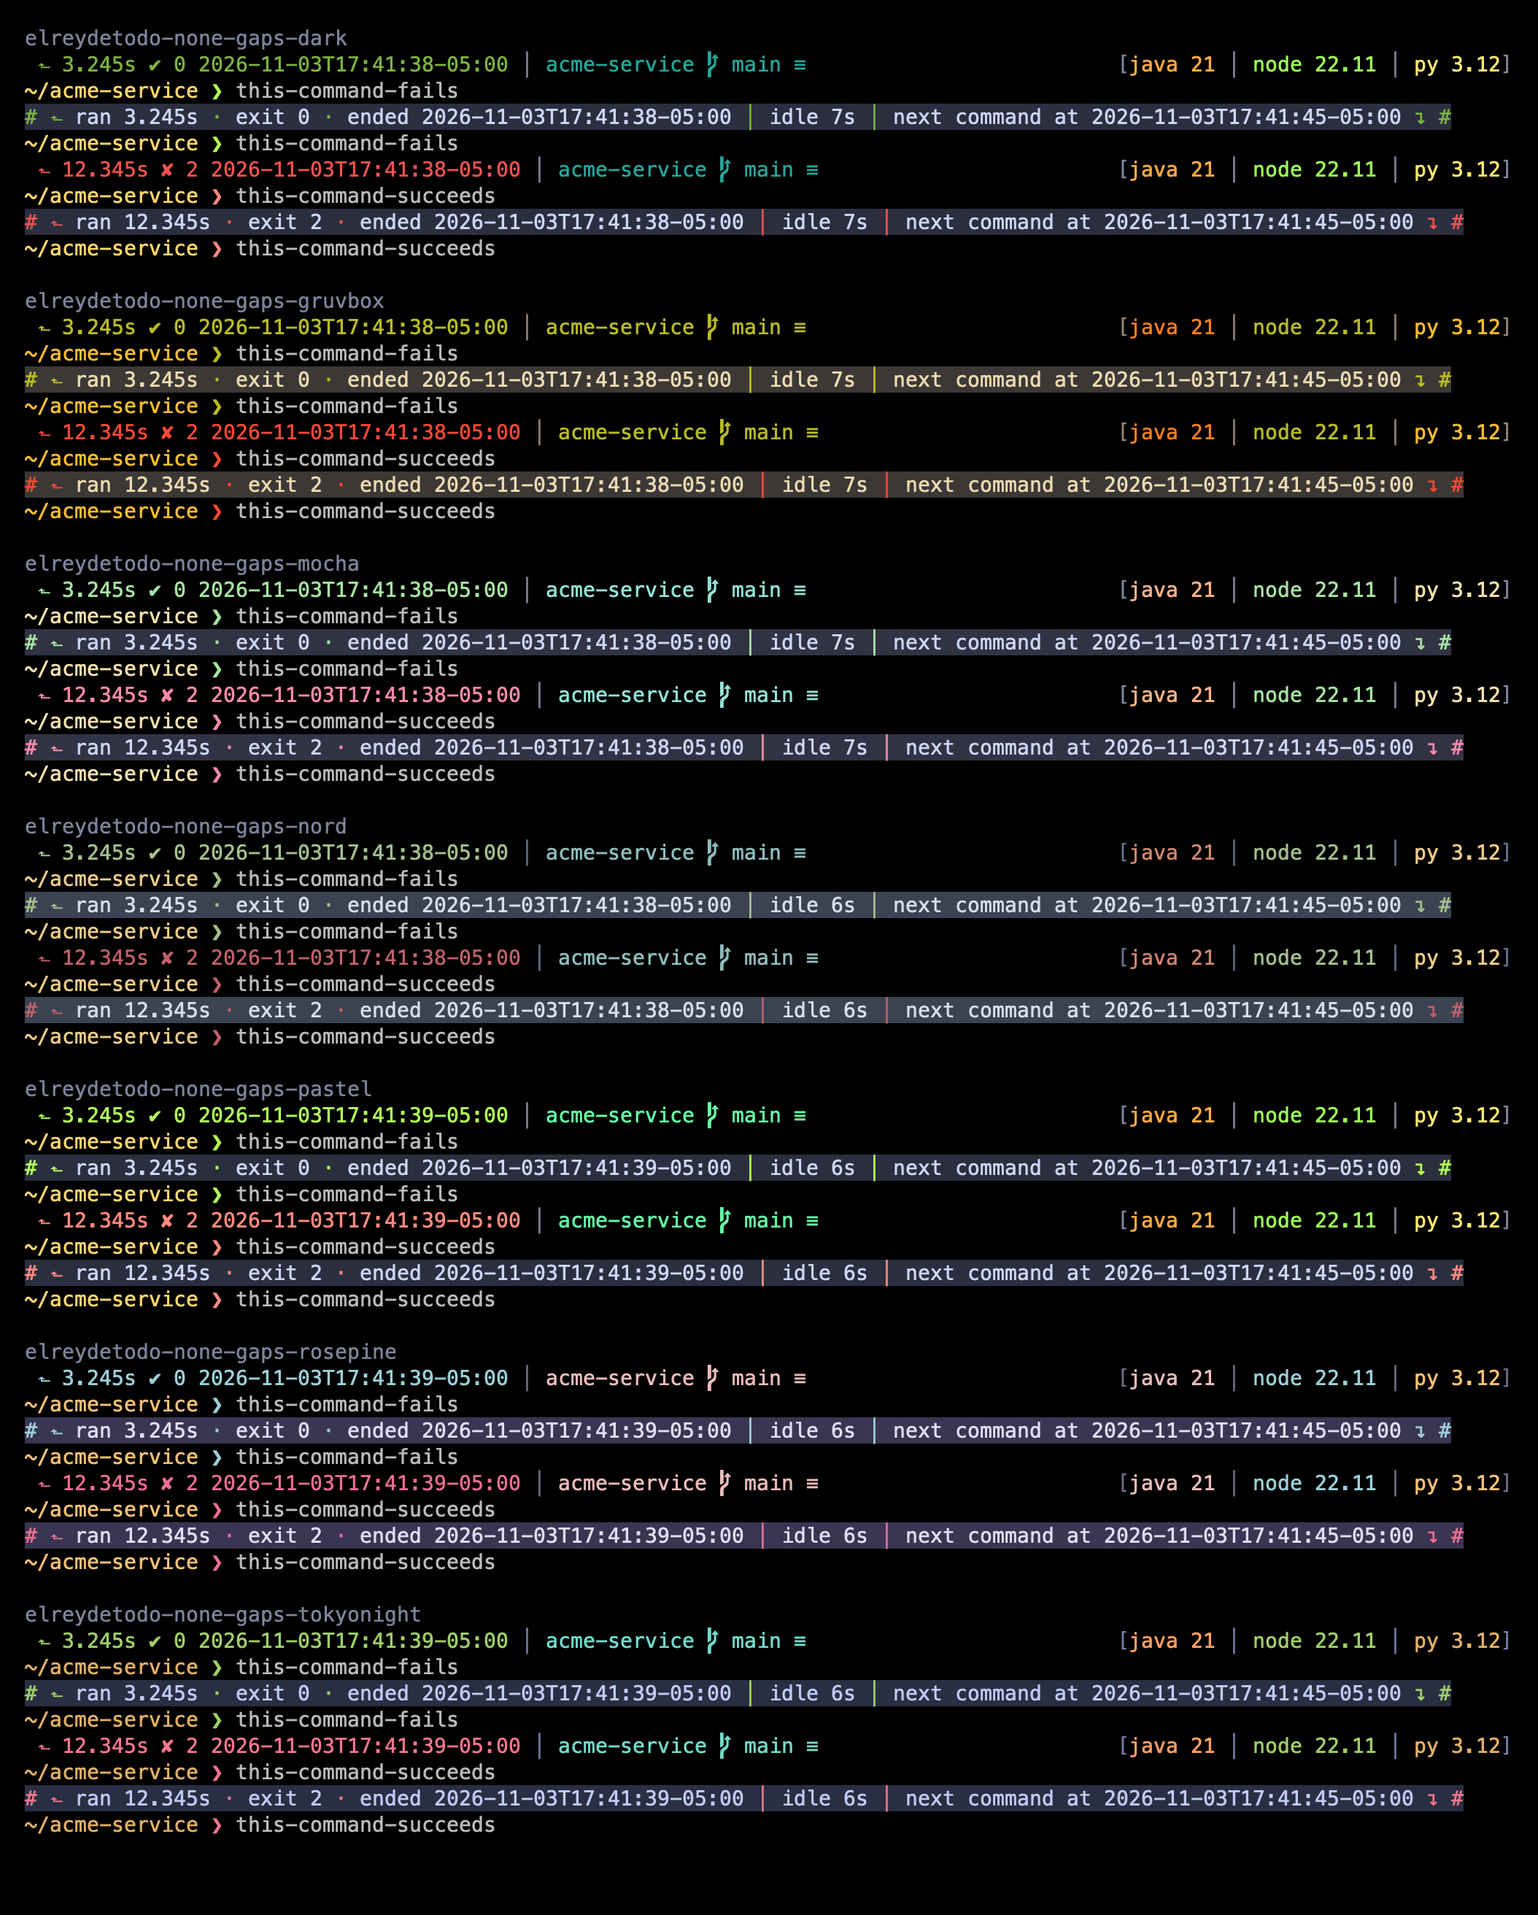
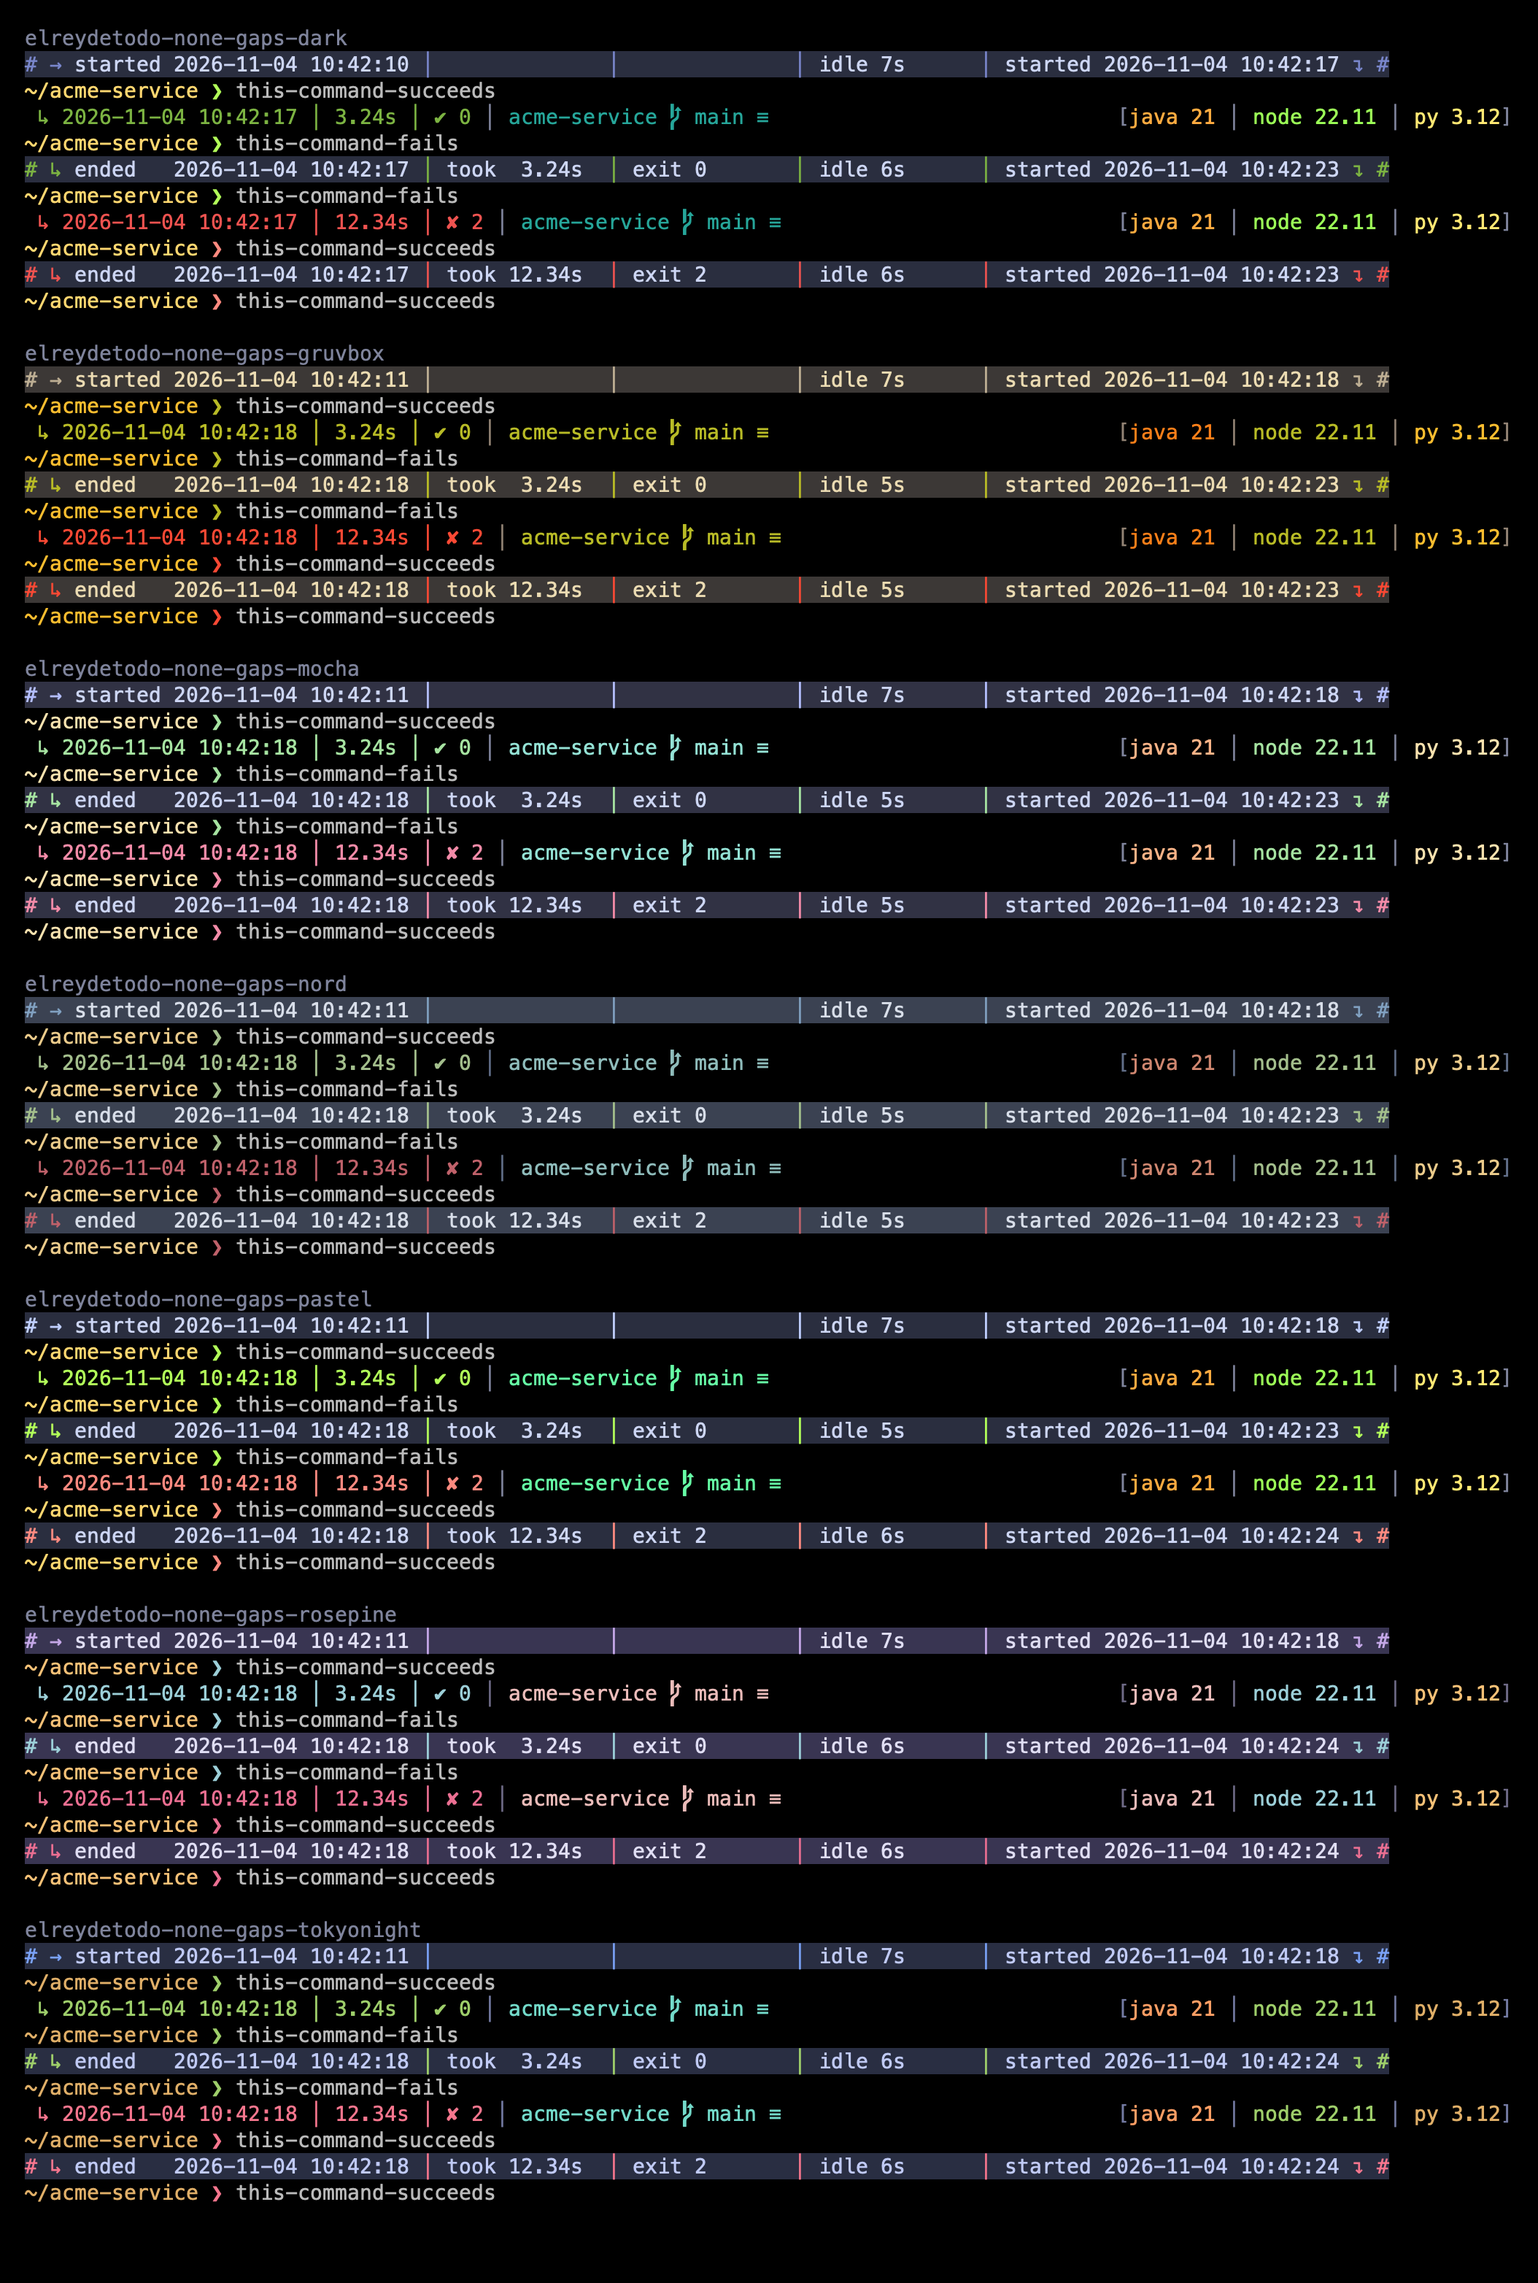
Line up the committed prompt in fixed columns
The committed line now has five segments, each padded to a fixed width, so the columns line up
from one committed prompt to the next in scrollback:

  # ↳ ended   2026-11-03 14:03:07 │ took  3.24s  │ exit 0       │ idle 41s     │ started 2026-11-03 14:03:48 ↴ #

- Timestamps drop the T and the time zone. ISO 8601 allows the space, and the zone is always the
  local one.
- The labels lose their "at", since the timestamp makes it obvious. The left side reads ended,
  started for a new session, or prompt after Enter on an empty line. The right side reads started,
  or aborted when Ctrl-C abandons the typed line. Both sides pad to the width of "started".
- Durations switch from austin to lucky7, which is always 7 characters. took then fits in 12
  columns for any duration. austin needed 15 for single-digit minutes and overflowed beyond that.
- Idle time uses Oh My Posh's secondsRound and keeps the two largest units, as in "5m 32s" or
  "2d 3h". The round and lucky7 styles only apply to the execution time segment's own duration.
- took and exit are blank when no command ran.

The line is 110 characters wide. 100 was the goal, but the words and the minimum padding alone
take 109.

↳ replaces ⬑ at the left, on both the committed and the live prompt. The line reads as a flow:
the command above comes down through ↳, passes through the explanation, and leaves through ↴
toward the command below. A session's first prompt has nothing above it, so it gets → instead.
[…]

diff --git a/oh-my-posh/DESIGN.md b/oh-my-posh/DESIGN.md
@@ -42,14 +42,16 @@ plausibly want is present in the file, with the unused ones commented out.
 The live prompt is two lines.
 
 ```
- ⬑ 3.245s ✔ 0 2026-11-03T14:03:07-05:00    shell-scripts  main ?1 ~2       [java 21 │ py 3.12 .venv]
+ ↳ 2026-11-03 14:03:07 │ 3.24s │ ✔ 0    shell-scripts  main ?1 ~2       [java 21 │ py 3.12 .venv]
 ~/src/shell-scripts ❯ ▌
 ```
 
 The first line is the information line. Its left side carries, in order:
 
-1. Facts about the previous command: the `⬑` marker, its duration, its exit status, and the time
-   it ended. The time it ended is the time this prompt arrived.
+1. Facts about the previous command: the `↳` marker, the time it ended, its duration, and its exit
+   status, separated by `│`. The time it ended is the time this prompt arrived. They come in the
+   same order as on the committed prompt. With no command before the prompt, `new session` or
+   `no command` replaces the duration and the status.
 2. Git: the repository name, the branch or commit, and the working tree status.
 
 Its right side carries tooling versions, separated by `│` inside one pair of square brackets. A
@@ -71,25 +73,39 @@ so.
 Pressing Enter rewrites both lines into two new ones:
 
 ```
-# ⬑ ran 3.245s · exit 0 · ended 2026-11-03T14:03:07-05:00 │ idle 41s │ next command at 2026-11-03T14:03:48-05:00 ↴ #
+# ↳ ended   2026-11-03 14:03:07 │ took  3.24s  │ exit 0       │ idle 41s     │ started 2026-11-03 14:03:48 ↴ #
 ~/src/shell-scripts ❯ git status
 ```
 
 The first line is a shell comment, so pasting it into a shell does nothing. A `#` at each end
-frames it, and two `│` split it into three segments:
+frames it, and four `│` split it into five segments:
 
-1. The command above: `ran`, `exit`, and `ended` repeat the previous-command facts from the live
-   prompt, separated by `·`.
-2. `idle` is the time the prompt waited for input. It is the moment Enter was pressed minus the
+1. `ended` is the time the command above ended. It is the time the live prompt arrived.
+2. `took` is how long the command above ran.
+3. `exit` is its exit status.
+4. `idle` is the time the prompt waited for input. It is the moment Enter was pressed minus the
    moment the prompt arrived.
-3. `next command at` is the moment Enter was pressed. It describes the command below.
+5. `started` is the moment Enter was pressed. It describes the command below.
 
-`↴` sits just before the closing `#` and points down at the command.
+The line reads as a flow from top to bottom. `↳` after the first `#` brings the command above down
+into the line, and `↴` before the last `#` sends it out to the command below. A session's first
+prompt has no command above it, so `→` takes the place of `↳`, on the live prompt as well.
 
-The anchors and separators, `#`, `⬑`, `·`, `│`, and `↴`, all take one color. It is the outcome of
-the command above: green after success, red after failure, and blue when there was no command, as
-in the live prompt's first pill. They use the color set's `ink-*` colors, because its pill colors
-can be too dark to read as text. All the other text on the line is one plain color. The colored
+Every segment has a fixed width, so the columns line up from one committed prompt to the next:
+
+- The labels of the two timestamps are padded to 7 characters, the width of `started`.
+- `took`, `exit`, and `idle` are each padded to 12 characters.
+- The duration uses the `lucky7` style, which is always 7 characters wide and keeps the decimal
+  point in one column. `took` therefore never overflows its 12 characters.
+- Idle time keeps the two largest units, as in `41s`, `5m 32s`, or `2d 3h`. The widest is
+  `idle 23h 59m`, which fits exactly.
+
+The whole line is 110 characters wide. A wider terminal is needed to keep it on one line.
+
+The anchors and separators, `#`, `↳`, `│`, and `↴`, all take one color. It is the outcome of the
+command above: green after success, red after failure, and blue when there was no command, as in
+the live prompt's first pill. They use the color set's `ink-*` colors, because its pill colors can
+be too dark to read as text. All the other text on the line is one plain color. The colored
 anchors make the line easy to find in scrollback, and they repeat the exit status at a glance.
 
 The first line also sits on a background band in the color set's `committed-band` color, a shade a
@@ -101,17 +117,21 @@ live prompt. Git and tooling information MUST NOT appear in the committed prompt
 
 The committed prompt MUST NOT contain rounded pill ends or other Nerd Font private-use characters,
 because those paste as junk outside the terminal. Colors, including the band, are fine, because
-only the characters are copied. `⬑` and `↴` are standard Unicode and are the only arrows used.
+only the characters are copied. `↳`, `→`, and `↴` are standard Unicode and are the only arrows
+used.
 
 Four cases change the first line:
 
-- **First prompt of a session.** `.PromptCount` is 1. The first segment reads
-  `new session at <time>`, and the anchors are blue.
+- **First prompt of a session.** `.PromptCount` is 1. The arrow is `→`, the first segment reads
+  `started <time>`, `took` and `exit` are blank, and the anchors are blue.
 - **Enter on an empty line.** `.Executed` is false and `.PromptCount` is above 1. The first segment
-  reads `no command · prompt at <time>`, and the anchors are blue.
+  reads `prompt <time>`, `took` and `exit` are blank, and the anchors are blue.
 - **Failure.** The anchors are red. The wording does not change.
-- **Cancelled input.** When Ctrl-C abandons the line being typed, `.Interrupted` is true. The last
-  segment reads `cancelled at <time>` instead of `next command at <time>`.
+- **Abandoned input.** Pressing Ctrl-C instead of Enter abandons the line being typed. Oh My Posh
+  draws the committed prompt at that moment, with `.Interrupted` set, and the last segment reads
+  `aborted <time>` instead of `started <time>`. The abandoned text stays on the line below and
+  never runs. A command interrupted with Ctrl-C while it runs is a different case. Its committed
+  prompt already reads `started`, and the next prompt reports its exit status, usually 130.
 
 ### How idle time is computed
 
@@ -119,18 +139,21 @@ Oh My Posh has no property for the moment a prompt was drawn. However, the time 
 `CurrentDate` when the live prompt renders, and the primary prompt saves segment data to a cache.
 The committed prompt is rendered by a fresh `oh-my-posh print transient` call at the moment Enter
 is pressed, and that call reads the cache back as `.Segments.Time.CurrentDate`. So
-`.Segments.Time.CurrentDate | durationRound` is the idle time, and `now` is the moment Enter was
-pressed. No shell hook is needed.
+the difference between `now` and `.Segments.Time.CurrentDate` is the idle time, and `now` is the
+moment Enter was pressed. No shell hook is needed. Oh My Posh's `secondsRound` function formats the
+difference with every unit, and the template keeps the first two.
 
 Streaming MUST NOT be enabled. With streaming, the committed prompt is rendered in advance, when
-the live prompt is drawn, and both `idle` and `next command at` would be wrong. The base file
+the live prompt is drawn, and both `idle` and `started` would be wrong. The base file
 carries a comment saying so beside the place the key would go.
 
 ## Formats
 
-- Every timestamp is ISO 8601 in the local time zone, with seconds, as in
-  `2026-11-03T14:03:07-05:00`. The Go layout is `2006-01-02T15:04:05Z07:00`.
-- Durations use the `austin` style of the execution time segment, as in `3.245s` or `1m 4s`.
+- Every timestamp is ISO 8601 in the local time zone, with seconds and a space in place of the
+  `T`, as in `2026-11-03 14:03:07`. The zone is left out, because it is always the local one. The
+  Go layout is `2006-01-02 15:04:05`.
+- Durations use the `lucky7` style of the execution time segment, as in `3.24s` or `5m 32s`. The
+  live prompt trims the padding that keeps it 7 characters wide.
 - The execution time segment is always enabled, so a fast command still shows its duration.
 
 ## Segments
@@ -139,9 +162,9 @@ Active, in the order they appear:
 
 | Segment | Line | Notes |
 | --- | --- | --- |
-| `executiontime` | information | Always enabled, `austin` style. |
-| `status` | information | Always enabled. |
 | `time` | information | ISO 8601 layout. Supplies the arrival time for idle time. |
+| `executiontime` | information | Always enabled, `lucky7` style. |
+| `status` | information | Always enabled. Says `new session` or `no command` when nothing ran. |
 | `git` | information | Repository name, branch or commit, working tree status. |
 | `java` | information, right | Per-folder cache of one hour. |
 | `node` | information, right | |

diff --git a/oh-my-posh/AGENTS.md b/oh-my-posh/AGENTS.md
@@ -6,14 +6,21 @@ designing it, so that none of it has to be rediscovered.
 ## The owner's preferences
 
 - Copying scrollback into messages is the top priority. Anything that would paste as junk is
-  rejected, including padding, Nerd Font characters on committed lines, and continuation markers.
+  rejected, including padding out to the terminal width, Nerd Font characters on committed lines,
+  and continuation markers. Padding inside the committed line is wanted, because it lines up the
+  columns from one committed prompt to the next.
 - The owner uses iTerm2 with `MesloLGSDZ Nerd Font Mono` at 14 points. Glyph alignment matters.
   Check that a glyph is in the font before using it:
   `fc-list ":charset=2b11" family | grep -ci meslo` prints 0 when the font lacks U+2B11.
-- `⬑` U+2B11 is the intended shape for "about the line above". Meslo lacks the whole U+2B0E to
-  U+2B11 group, so iTerm2 draws it from a fallback font, slightly small and high. The owner
-  accepted that. No Nerd Font icon has this shape. `md-arrow_left_top` U+F17A7 is the
-  up-then-left shape and was rejected.
+- The committed line is read as a process flow. The command above comes down through `↳` U+21B3
+  at the left, passes through the explanation, and leaves through `↴` U+21B4 at the right toward
+  the command below. The live prompt starts with the same `↳`. A session's first prompt uses `→`
+  U+2192 instead, because nothing comes down from above. All three arrows are in Meslo. The
+  U+2B0E to U+2B11 group, such as `⬑`, is not, and iTerm2 draws it from a fallback font, slightly
+  small and high. Nor are the curved `⤶` and `⤷`.
+- The committed line was asked to be 100 characters wide. It is 110, which the owner accepted.
+  Narrowing it means shorter labels or a narrower `took` column, and the owner chose `lucky7`
+  durations for that reason.
 - Pastel colors are preferred. So are rounded ends or no background at all, and fewer gaps between
   segments. Angled powerline transitions are disliked. Of the color sets, pastel, dark, and Mocha
   were liked best, and `round-gaps-mocha` was the favorite variant when the set was built.
@@ -72,18 +79,23 @@ They were read at v31.9.1.
   (`_omp_zle-line-init`). With streaming on, a copy rendered in advance is used instead.
 - Streaming is opt-in through the top-level `streaming` key (`src/config/config.go`).
 - The transient template is rendered in trusted mode (`src/prompt/extra.go`, `extraPrompt`). The
-  full sprig function set is available there, including `now` and `durationRound`.
+  full sprig function set is available there, including `now`, `printf`, and `ternary`, plus Oh My
+  Posh's own `secondsRound` (`src/template/round.go`). Go's `printf` pads by character, not byte.
+- The `round` and `lucky7` duration styles belong to the execution time segment
+  (`src/segments/executiontime.go`). No template function applies them to another duration.
+- When Ctrl-C abandons the line being typed, the zsh integration renders the committed prompt at
+  once with `--interrupted` (`src/shell/scripts/omp.zsh`, around line 660).
 - The transient template has no access to the terminal width.
 - `.PromptCount` is stored per session and counts primary prompts (`src/runtime/terminal.go`,
   `setPromptCount`).
 - `.Executed` is false on a session's first prompt and after Enter on an empty line.
 - The format is chosen from the file extension, and `.yml` is accepted (`src/config/data.go`).
 - `extends` merges blocks by `type` and `alignment`, and segments by `alias` or `type`
-  (`src/config/merge.go`). A block with `index: N` matches the Nth block of the base instead.
-  The base file has two left-aligned blocks, so shapes MUST use `index`. An override replaces a
-  string or scalar but cannot clear a string, and it appends to a list rather than replacing it.
-  This is why the base file sets no diamonds, backgrounds, or color templates on the information
-  line.
+  (`src/config/merge.go`). The segments keep the order of the base file. A block with `index: N`
+  matches the Nth block of the base instead. The base file has two left-aligned blocks, so shapes
+  MUST use `index`. An override replaces a string or scalar but cannot clear a string, and it
+  appends to a list rather than replacing it. This is why the base file sets no diamonds,
+  backgrounds, or color templates on the information line.
 - `extends` never adds a block that the parent lacks. Blocks of the child with no match are
   dropped silently (`src/config/merge.go`, `merge`). The chain is merged one hop at a time, so a
   file with no blocks anywhere in it drops the blocks of every file below it. The root of the chain
